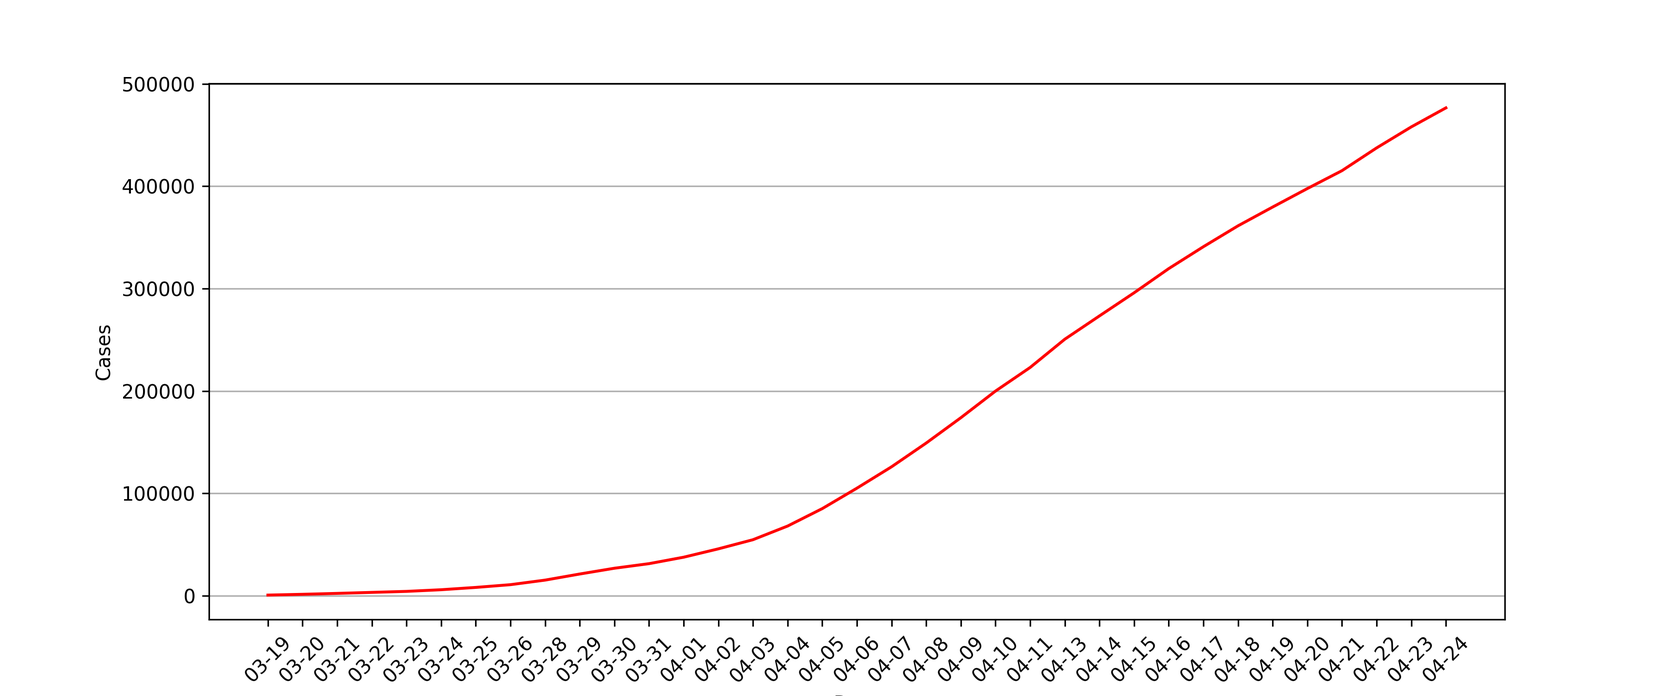
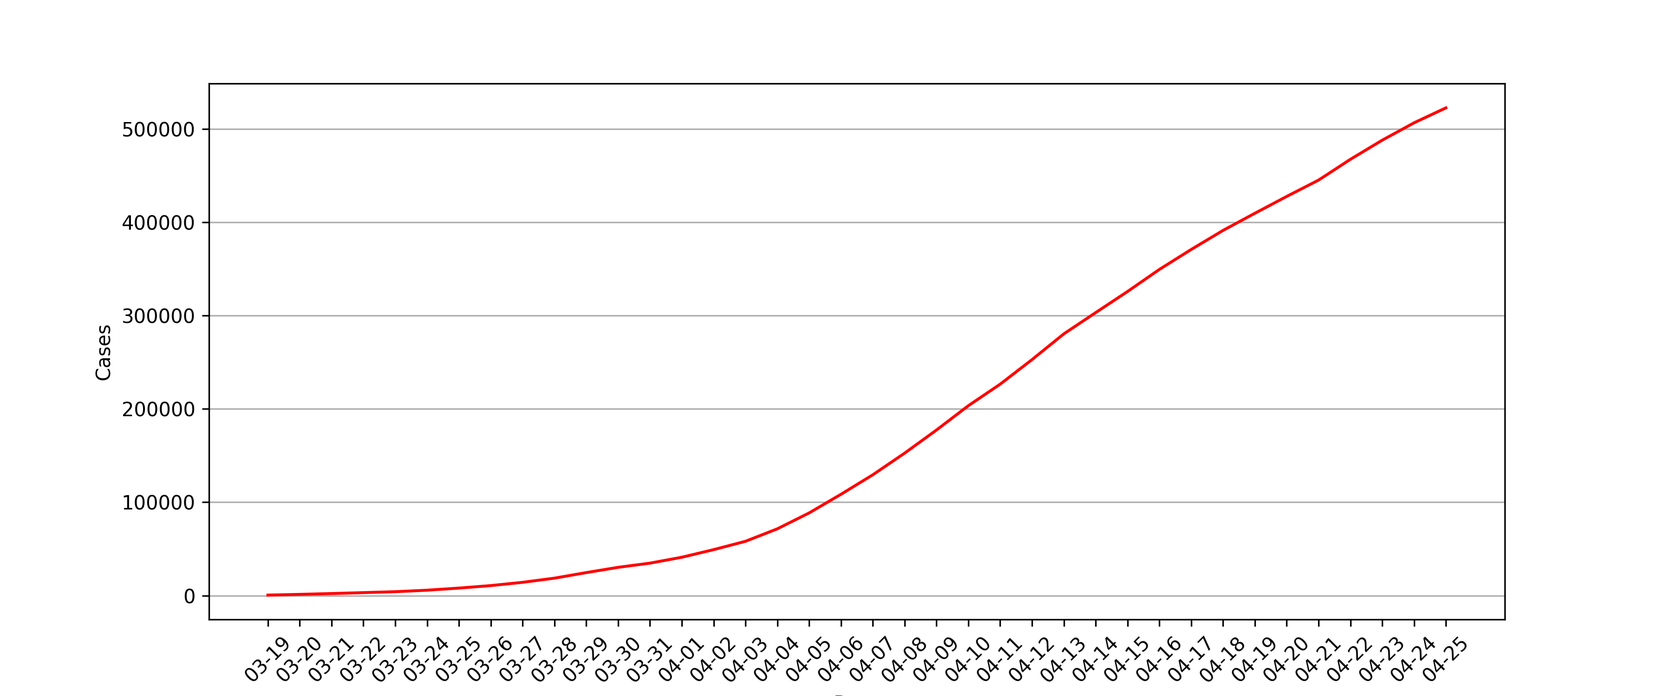
update readme

diff --git a/readme.py b/readme.py
@@ -1,3 +1,4 @@
+from datetime import datetime
 from jinja2 import Environment, FileSystemLoader
 from util import get_data
 
@@ -46,7 +47,8 @@ if __name__ == "__main__":
                                cases=sorted(
                                    cases, key=lambda x: x['date'], reverse=True),
                                cases_by_date=cases_by_date,
-                               district_names=district_names)
+                               district_names=district_names,
+                               current_date=datetime.now().strftime("%d/%m/%Y"))
 
     with open("README.md", "w") as f:
         f.write(content)

diff --git a/parser.py b/parser.py
@@ -126,7 +126,7 @@ def generate_all_data(urls_filename: str):
     with open(urls_filename, 'r') as f:
         urls = json.load(f)
 
-    regex = "(\\d+)月(\\d+)日（(.*?)时）本市各区确诊病例、无症状感染者居住地信息.*?"
+    regex = "(.*?)月(\\d+)日（(.*?)时）本市各区确诊病例、无症状感染者居住地信息.*?"
     pattern = re.compile(regex, re.IGNORECASE)
     for url in urls:
         text = url['text']

diff --git a/README.md b/README.md
@@ -4,7 +4,7 @@ No entire COVID-19 statistics data of Shanghai lockdown period can be found in [
 Data of project [shanghai-lockdown-covid-19](https://github.com/lewangdev/shanghai-lockdown-covid-19) is crawled from [Shanghai Government](https://wsjkw.sh.gov.cn/yqtb/)'s public website, began at 19/03/2022, the date of my place lockdown.
 
 Shanghai is divided by Huangpu River into two parts, Pudong area and Puxi area. Pudong's lockdown began at 28/03/2022 firstly, and Puxi started its shutdown at 01/04/2022.
-Most of areas of Shanghai remain locked down till now(25/04/2022). 
+Most of areas of Shanghai remain locked down till 26/04/2022. 
 
 This project will be updated everyday before Shanghai reopen. JSON files with places can be found in directory [data](https://github.com/lewangdev/shanghai-lockdown-covid-19/tree/main/data).
 
@@ -17,6 +17,7 @@ This project will be updated everyday before Shanghai reopen. JSON files with pl
 
 | Date/Details | New Cases  | Confirmed Cases | Asymptomatic Cases | A2C Cases(*) |
 | ---- | ---------- | ---------------- | ----------------- | ---------------------------- |
+| 2022-04-25 | 16012 | 1661 | 15319 | 968 |
 | 2022-04-24 | 18609 | 2472 | 16983 | 846 |
 | 2022-04-23 | 20517 | 1401 | 19657 | 541 |
 | 2022-04-22 | 22250 | 2736 | 20634 | 1120 |
@@ -29,6 +30,7 @@ This project will be updated everyday before Shanghai reopen. JSON files with pl
 | 2022-04-15 | 22591 | 3590 | 19923 | 922 |
 | 2022-04-14 | 22765 | 3200 | 19872 | 307 |
 | 2022-04-13 | 27605 | 2573 | 25146 | 114 |
+| 2022-04-12 | 26307 | 1189 | 25141 | 23 |
 | 2022-04-11 | 23069 | 994 | 22348 | 273 |
 | 2022-04-10 | 26040 | 914 | 25173 | 47 |
 | 2022-04-09 | 24752 | 1006 | 23937 | 191 |
@@ -44,6 +46,7 @@ This project will be updated everyday before Shanghai reopen. JSON files with pl
 | 2022-03-30 | 5637 | 355 | 5298 | 16 |
 | 2022-03-29 | 5964 | 326 | 5656 | 18 |
 | 2022-03-28 | 4456 | 96 | 4381 | 21 |
+| 2022-03-27 | 3500 | 50 | 3450 | 0 |
 | 2022-03-26 | 2676 | 45 | 2631 | 0 |
 | 2022-03-25 | 2264 | 38 | 2231 | 5 |
 | 2022-03-24 | 1609 | 29 | 1580 | 0 |
@@ -61,33 +64,36 @@ This project will be updated everyday before Shanghai reopen. JSON files with pl
 
 | Date | Total Cases  | 
 | ---- | ---------- |
-| 2022-04-24 | 476605 |
-| 2022-04-23 | 457996 |
-| 2022-04-22 | 437479 |
-| 2022-04-21 | 415229 |
-| 2022-04-20 | 397743 |
-| 2022-04-19 | 379707 |
-| 2022-04-18 | 361339 |
-| 2022-04-17 | 340923 |
-| 2022-04-16 | 319528 |
-| 2022-04-15 | 295885 |
-| 2022-04-14 | 273294 |
-| 2022-04-13 | 250529 |
-| 2022-04-11 | 222924 |
-| 2022-04-10 | 199855 |
-| 2022-04-09 | 173815 |
-| 2022-04-08 | 149063 |
-| 2022-04-07 | 125859 |
-| 2022-04-06 | 104960 |
-| 2022-04-05 | 84993 |
-| 2022-04-04 | 67956 |
-| 2022-04-03 | 54606 |
-| 2022-04-02 | 45671 |
-| 2022-04-01 | 37518 |
-| 2022-03-31 | 31209 |
-| 2022-03-30 | 26727 |
-| 2022-03-29 | 21090 |
-| 2022-03-28 | 15126 |
+| 2022-04-25 | 522424 |
+| 2022-04-24 | 506412 |
+| 2022-04-23 | 487803 |
+| 2022-04-22 | 467286 |
+| 2022-04-21 | 445036 |
+| 2022-04-20 | 427550 |
+| 2022-04-19 | 409514 |
+| 2022-04-18 | 391146 |
+| 2022-04-17 | 370730 |
+| 2022-04-16 | 349335 |
+| 2022-04-15 | 325692 |
+| 2022-04-14 | 303101 |
+| 2022-04-13 | 280336 |
+| 2022-04-12 | 252731 |
+| 2022-04-11 | 226424 |
+| 2022-04-10 | 203355 |
+| 2022-04-09 | 177315 |
+| 2022-04-08 | 152563 |
+| 2022-04-07 | 129359 |
+| 2022-04-06 | 108460 |
+| 2022-04-05 | 88493 |
+| 2022-04-04 | 71456 |
+| 2022-04-03 | 58106 |
+| 2022-04-02 | 49171 |
+| 2022-04-01 | 41018 |
+| 2022-03-31 | 34709 |
+| 2022-03-30 | 30227 |
+| 2022-03-29 | 24590 |
+| 2022-03-28 | 18626 |
+| 2022-03-27 | 14170 |
 | 2022-03-26 | 10670 |
 | 2022-03-25 | 7994 |
 | 2022-03-24 | 5730 |
@@ -99,124 +105,133 @@ This project will be updated everyday before Shanghai reopen. JSON files with pl
 
 ### District New Cases
 
-| Date/District |  浦东新区 |  黄浦区 |  静安区 |  徐汇区 |  长宁区 |  杨浦区 |  宝山区 |  闵行区 |  嘉定区 |  金山区 |  松江区 |  青浦区 |  奉贤区 |  虹口区 |  普陀区 |  崇明区 |  
+| Date/District |  浦东新区 |  黄浦区 |  静安区 |  徐汇区 |  长宁区 |  杨浦区 |  宝山区 |  闵行区 |  嘉定区 |  金山区 |  松江区 |  青浦区 |  奉贤区 |  普陀区 |  虹口区 |  崇明区 |  
 | ---- |  ---------- |  ---------- |  ---------- |  ---------- |  ---------- |  ---------- |  ---------- |  ---------- |  ---------- |  ---------- |  ---------- |  ---------- |  ---------- |  ---------- |  ---------- |  ---------- | 
 | 2022-03-19 |  135 |  36 |  15 |  61 |  12 |  14 |  17 |  53 |  81 |  3 |  16 |  5 |  6 |  0 |  0 |  0 |  
 | 2022-03-20 |  220 |  42 |  32 |  46 |  13 |  8 |  13 |  265 |  0 |  11 |  9 |  4 |  13 |  0 |  0 |  0 |  
 | 2022-03-21 |  169 |  0 |  44 |  130 |  26 |  10 |  67 |  122 |  0 |  16 |  0 |  5 |  22 |  0 |  0 |  0 |  
-| 2022-03-22 |  237 |  59 |  28 |  87 |  19 |  3 |  16 |  305 |  0 |  0 |  31 |  20 |  8 |  13 |  21 |  19 |  
-| 2022-03-23 |  218 |  20 |  48 |  106 |  11 |  11 |  69 |  256 |  69 |  0 |  34 |  10 |  12 |  26 |  34 |  54 |  
-| 2022-03-24 |  193 |  102 |  70 |  167 |  59 |  21 |  87 |  490 |  130 |  0 |  92 |  13 |  24 |  29 |  38 |  82 |  
-| 2022-03-25 |  1914 |  23 |  2 |  3 |  4 |  11 |  4 |  206 |  19 |  0 |  15 |  13 |  0 |  4 |  9 |  41 |  
-| 2022-03-26 |  323 |  160 |  108 |  331 |  29 |  23 |  153 |  972 |  0 |  0 |  79 |  22 |  84 |  50 |  69 |  27 |  
-| 2022-03-28 |  2506 |  283 |  104 |  91 |  115 |  47 |  311 |  370 |  0 |  19 |  90 |  57 |  115 |  8 |  81 |  67 |  
-| 2022-03-29 |  2183 |  110 |  175 |  1100 |  30 |  99 |  363 |  988 |  255 |  26 |  0 |  87 |  96 |  73 |  113 |  55 |  
-| 2022-03-30 |  2207 |  361 |  102 |  404 |  128 |  100 |  504 |  780 |  158 |  33 |  0 |  77 |  130 |  84 |  146 |  193 |  
-| 2022-03-31 |  2407 |  121 |  164 |  226 |  256 |  174 |  17 |  392 |  54 |  42 |  179 |  95 |  183 |  128 |  15 |  44 |  
-| 2022-04-01 |  2584 |  2584 |  260 |  260 |  189 |  189 |  639 |  639 |  37 |  37 |  134 |  134 |  45 |  45 |  1043 |  1043 |  0 |  0 |  49 |  49 |  474 |  474 |  87 |  87 |  161 |  161 |  61 |  61 |  245 |  245 |  83 |  83 |  
-| 2022-04-02 |  2038 |  659 |  324 |  1042 |  100 |  274 |  485 |  829 |  0 |  60 |  567 |  231 |  157 |  342 |  388 |  113 |  
-| 2022-04-03 |  3654 |  824 |  338 |  499 |  104 |  374 |  467 |  940 |  415 |  103 |  257 |  232 |  119 |  188 |  321 |  165 |  
-| 2022-04-04 |  7071 |  970 |  50 |  1229 |  33 |  220 |  265 |  1381 |  237 |  52 |  553 |  314 |  64 |  608 |  254 |  47 |  
-| 2022-04-05 |  8145 |  658 |  302 |  920 |  84 |  623 |  554 |  2937 |  481 |  77 |  796 |  384 |  144 |  410 |  483 |  79 |  
-| 2022-04-06 |  8457 |  1044 |  545 |  1107 |  350 |  630 |  660 |  2409 |  1408 |  79 |  781 |  470 |  278 |  668 |  1033 |  63 |  
-| 2022-04-07 |  9050 |  1380 |  381 |  2076 |  852 |  601 |  414 |  2257 |  933 |  129 |  644 |  493 |  92 |  594 |  957 |  260 |  
-| 2022-04-08 |  7286 |  2607 |  665 |  1629 |  614 |  701 |  2821 |  2854 |  1505 |  90 |  663 |  342 |  97 |  378 |  1094 |  167 |  
-| 2022-04-09 |  11130 |  548 |  602 |  1150 |  757 |  1080 |  2261 |  4624 |  369 |  68 |  500 |  557 |  124 |  349 |  653 |  171 |  
-| 2022-04-10 |  6732 |  1761 |  603 |  3203 |  387 |  1877 |  1839 |  3189 |  1405 |  57 |  1534 |  877 |  38 |  1238 |  1001 |  0 |  
-| 2022-04-11 |  8306 |  2223 |  552 |  1771 |  393 |  1420 |  1024 |  3007 |  208 |  38 |  670 |  331 |  68 |  1375 |  1878 |  0 |  
-| 2022-04-13 |  15027 |  1408 |  220 |  1492 |  957 |  1185 |  651 |  2939 |  721 |  34 |  526 |  319 |  83 |  1488 |  475 |  56 |  
-| 2022-04-14 |  11656 |  2013 |  266 |  1342 |  998 |  817 |  417 |  2378 |  803 |  28 |  583 |  304 |  35 |  930 |  264 |  31 |  
-| 2022-04-15 |  10282 |  1384 |  433 |  1689 |  752 |  1411 |  1323 |  2037 |  741 |  31 |  773 |  536 |  106 |  1497 |  426 |  92 |  
-| 2022-04-16 |  10791 |  1565 |  1134 |  1532 |  706 |  860 |  1293 |  3060 |  685 |  21 |  323 |  305 |  51 |  1027 |  1331 |  36 |  
-| 2022-04-17 |  7740 |  1896 |  842 |  1553 |  739 |  887 |  1450 |  2402 |  978 |  24 |  752 |  369 |  20 |  1166 |  1225 |  0 |  
-| 2022-04-18 |  8831 |  3323 |  1010 |  572 |  680 |  481 |  1030 |  1372 |  588 |  7 |  762 |  257 |  14 |  1092 |  371 |  26 |  
-| 2022-04-19 |  5646 |  3084 |  1733 |  1608 |  618 |  766 |  957 |  1602 |  743 |  9 |  325 |  389 |  60 |  753 |  528 |  80 |  
-| 2022-04-20 |  4465 |  3097 |  1130 |  1447 |  726 |  2005 |  833 |  1686 |  649 |  17 |  676 |  280 |  32 |  832 |  555 |  57 |  
-| 2022-04-21 |  4655 |  1752 |  2064 |  1366 |  496 |  543 |  978 |  2563 |  776 |  30 |  493 |  385 |  34 |  885 |  489 |  120 |  
-| 2022-04-22 |  7961 |  2843 |  786 |  1275 |  713 |  1356 |  2033 |  1305 |  500 |  26 |  2568 |  359 |  8 |  997 |  523 |  103 |  
-| 2022-04-23 |  7626 |  1959 |  471 |  1722 |  727 |  1277 |  2886 |  877 |  751 |  0 |  773 |  424 |  16 |  819 |  478 |  182 |  
-| 2022-04-24 |  6181 |  1755 |  1702 |  1396 |  749 |  1235 |  2506 |  1229 |  601 |  68 |  548 |  251 |  7 |  655 |  477 |  95 |  
+| 2022-03-22 |  237 |  59 |  28 |  87 |  19 |  3 |  16 |  305 |  0 |  0 |  31 |  20 |  8 |  21 |  13 |  19 |  
+| 2022-03-23 |  218 |  20 |  48 |  106 |  11 |  11 |  69 |  256 |  69 |  0 |  34 |  10 |  12 |  34 |  26 |  54 |  
+| 2022-03-24 |  193 |  102 |  70 |  167 |  59 |  21 |  87 |  490 |  130 |  0 |  92 |  13 |  24 |  38 |  29 |  82 |  
+| 2022-03-25 |  1914 |  23 |  2 |  3 |  4 |  11 |  4 |  206 |  19 |  0 |  15 |  13 |  0 |  9 |  4 |  41 |  
+| 2022-03-26 |  323 |  160 |  108 |  331 |  29 |  23 |  153 |  972 |  0 |  0 |  79 |  22 |  84 |  69 |  50 |  27 |  
+| 2022-03-27 |  1429 |  56 |  70 |  277 |  45 |  35 |  94 |  619 |  0 |  0 |  190 |  43 |  45 |  70 |  27 |  236 |  
+| 2022-03-28 |  2506 |  283 |  104 |  91 |  115 |  47 |  311 |  370 |  0 |  19 |  90 |  57 |  115 |  81 |  8 |  67 |  
+| 2022-03-29 |  2183 |  110 |  175 |  1100 |  30 |  99 |  363 |  988 |  255 |  26 |  0 |  87 |  96 |  113 |  73 |  55 |  
+| 2022-03-30 |  2207 |  361 |  102 |  404 |  128 |  100 |  504 |  780 |  158 |  33 |  0 |  77 |  130 |  146 |  84 |  193 |  
+| 2022-03-31 |  2407 |  121 |  164 |  226 |  256 |  174 |  17 |  392 |  54 |  42 |  179 |  95 |  183 |  15 |  128 |  44 |  
+| 2022-04-01 |  2584 |  2584 |  260 |  260 |  189 |  189 |  639 |  639 |  37 |  37 |  134 |  134 |  45 |  45 |  1043 |  1043 |  0 |  0 |  49 |  49 |  474 |  474 |  87 |  87 |  161 |  161 |  245 |  245 |  61 |  61 |  83 |  83 |  
+| 2022-04-02 |  2038 |  659 |  324 |  1042 |  100 |  274 |  485 |  829 |  0 |  60 |  567 |  231 |  157 |  388 |  342 |  113 |  
+| 2022-04-03 |  3654 |  824 |  338 |  499 |  104 |  374 |  467 |  940 |  415 |  103 |  257 |  232 |  119 |  321 |  188 |  165 |  
+| 2022-04-04 |  7071 |  970 |  50 |  1229 |  33 |  220 |  265 |  1381 |  237 |  52 |  553 |  314 |  64 |  254 |  608 |  47 |  
+| 2022-04-05 |  8145 |  658 |  302 |  920 |  84 |  623 |  554 |  2937 |  481 |  77 |  796 |  384 |  144 |  483 |  410 |  79 |  
+| 2022-04-06 |  8457 |  1044 |  545 |  1107 |  350 |  630 |  660 |  2409 |  1408 |  79 |  781 |  470 |  278 |  1033 |  668 |  63 |  
+| 2022-04-07 |  9050 |  1380 |  381 |  2076 |  852 |  601 |  414 |  2257 |  933 |  129 |  644 |  493 |  92 |  957 |  594 |  260 |  
+| 2022-04-08 |  7286 |  2607 |  665 |  1629 |  614 |  701 |  2821 |  2854 |  1505 |  90 |  663 |  342 |  97 |  1094 |  378 |  167 |  
+| 2022-04-09 |  11130 |  548 |  602 |  1150 |  757 |  1080 |  2261 |  4624 |  369 |  68 |  500 |  557 |  124 |  653 |  349 |  171 |  
+| 2022-04-10 |  6732 |  1761 |  603 |  3203 |  387 |  1877 |  1839 |  3189 |  1405 |  57 |  1534 |  877 |  38 |  1001 |  1238 |  0 |  
+| 2022-04-11 |  8306 |  2223 |  552 |  1771 |  393 |  1420 |  1024 |  3007 |  208 |  38 |  670 |  331 |  68 |  1878 |  1375 |  0 |  
+| 2022-04-12 |  11049 |  1804 |  1056 |  1108 |  1133 |  1159 |  295 |  4245 |  986 |  39 |  712 |  524 |  33 |  1170 |  931 |  86 |  
+| 2022-04-13 |  15027 |  1408 |  220 |  1492 |  957 |  1185 |  651 |  2939 |  721 |  34 |  526 |  319 |  83 |  475 |  1488 |  56 |  
+| 2022-04-14 |  11656 |  2013 |  266 |  1342 |  998 |  817 |  417 |  2378 |  803 |  28 |  583 |  304 |  35 |  264 |  930 |  31 |  
+| 2022-04-15 |  10282 |  1384 |  433 |  1689 |  752 |  1411 |  1323 |  2037 |  741 |  31 |  773 |  536 |  106 |  426 |  1497 |  92 |  
+| 2022-04-16 |  10791 |  1565 |  1134 |  1532 |  706 |  860 |  1293 |  3060 |  685 |  21 |  323 |  305 |  51 |  1331 |  1027 |  36 |  
+| 2022-04-17 |  7740 |  1896 |  842 |  1553 |  739 |  887 |  1450 |  2402 |  978 |  24 |  752 |  369 |  20 |  1225 |  1166 |  0 |  
+| 2022-04-18 |  8831 |  3323 |  1010 |  572 |  680 |  481 |  1030 |  1372 |  588 |  7 |  762 |  257 |  14 |  371 |  1092 |  26 |  
+| 2022-04-19 |  5646 |  3084 |  1733 |  1608 |  618 |  766 |  957 |  1602 |  743 |  9 |  325 |  389 |  60 |  528 |  753 |  80 |  
+| 2022-04-20 |  4465 |  3097 |  1130 |  1447 |  726 |  2005 |  833 |  1686 |  649 |  17 |  676 |  280 |  32 |  555 |  832 |  57 |  
+| 2022-04-21 |  4655 |  1752 |  2064 |  1366 |  496 |  543 |  978 |  2563 |  776 |  30 |  493 |  385 |  34 |  489 |  885 |  120 |  
+| 2022-04-22 |  7961 |  2843 |  786 |  1275 |  713 |  1356 |  2033 |  1305 |  500 |  26 |  2568 |  359 |  8 |  523 |  997 |  103 |  
+| 2022-04-23 |  7626 |  1959 |  471 |  1722 |  727 |  1277 |  2886 |  877 |  751 |  0 |  773 |  424 |  16 |  478 |  819 |  182 |  
+| 2022-04-24 |  6181 |  1755 |  1702 |  1396 |  749 |  1235 |  2506 |  1229 |  601 |  68 |  548 |  251 |  7 |  477 |  655 |  95 |  
+| 2022-04-25 |  3912 |  2671 |  1016 |  1341 |  534 |  1244 |  1786 |  717 |  543 |  22 |  641 |  379 |  9 |  418 |  1270 |  438 |  
 
 
 ### District Total Cases
 
-| Date/District |  浦东新区 |  黄浦区 |  静安区 |  徐汇区 |  长宁区 |  杨浦区 |  宝山区 |  闵行区 |  嘉定区 |  金山区 |  松江区 |  青浦区 |  奉贤区 |  虹口区 |  普陀区 |  崇明区 |  
+| Date/District |  浦东新区 |  黄浦区 |  静安区 |  徐汇区 |  长宁区 |  杨浦区 |  宝山区 |  闵行区 |  嘉定区 |  金山区 |  松江区 |  青浦区 |  奉贤区 |  普陀区 |  虹口区 |  崇明区 |  
 | ---- |  ---------- |  ---------- |  ---------- |  ---------- |  ---------- |  ---------- |  ---------- |  ---------- |  ---------- |  ---------- |  ---------- |  ---------- |  ---------- |  ---------- |  ---------- |  ---------- | 
 | 2022-03-19 |  135 |  36 |  15 |  61 |  12 |  14 |  17 |  53 |  81 |  3 |  16 |  5 |  6 |  0 |  0 |  0 |  
 | 2022-03-20 |  355 |  78 |  47 |  107 |  25 |  22 |  30 |  318 |  81 |  14 |  25 |  9 |  19 |  0 |  0 |  0 |  
 | 2022-03-21 |  524 |  78 |  91 |  237 |  51 |  32 |  97 |  440 |  81 |  30 |  25 |  14 |  41 |  0 |  0 |  0 |  
-| 2022-03-22 |  761 |  137 |  119 |  324 |  70 |  35 |  113 |  745 |  81 |  30 |  56 |  34 |  49 |  13 |  21 |  19 |  
-| 2022-03-23 |  979 |  157 |  167 |  430 |  81 |  46 |  182 |  1001 |  150 |  30 |  90 |  44 |  61 |  39 |  55 |  73 |  
-| 2022-03-24 |  1172 |  259 |  237 |  597 |  140 |  67 |  269 |  1491 |  280 |  30 |  182 |  57 |  85 |  68 |  93 |  155 |  
-| 2022-03-25 |  3086 |  282 |  239 |  600 |  144 |  78 |  273 |  1697 |  299 |  30 |  197 |  70 |  85 |  72 |  102 |  196 |  
-| 2022-03-26 |  3409 |  442 |  347 |  931 |  173 |  101 |  426 |  2669 |  299 |  30 |  276 |  92 |  169 |  122 |  171 |  223 |  
-| 2022-03-28 |  5915 |  725 |  451 |  1022 |  288 |  148 |  737 |  3039 |  299 |  49 |  366 |  149 |  284 |  130 |  252 |  290 |  
-| 2022-03-29 |  8098 |  835 |  626 |  2122 |  318 |  247 |  1100 |  4027 |  554 |  75 |  366 |  236 |  380 |  203 |  365 |  345 |  
-| 2022-03-30 |  10305 |  1196 |  728 |  2526 |  446 |  347 |  1604 |  4807 |  712 |  108 |  366 |  313 |  510 |  287 |  511 |  538 |  
-| 2022-03-31 |  12712 |  1317 |  892 |  2752 |  702 |  521 |  1621 |  5199 |  766 |  150 |  545 |  408 |  693 |  415 |  526 |  582 |  
-| 2022-04-01 |  15296 |  17880 |  1577 |  1837 |  1081 |  1270 |  3391 |  4030 |  739 |  776 |  655 |  789 |  1666 |  1711 |  6242 |  7285 |  766 |  766 |  199 |  248 |  1019 |  1493 |  495 |  582 |  854 |  1015 |  476 |  537 |  771 |  1016 |  665 |  748 |  
-| 2022-04-02 |  19918 |  2496 |  1594 |  5072 |  876 |  1063 |  2196 |  8114 |  766 |  308 |  2060 |  813 |  1172 |  879 |  1404 |  861 |  
-| 2022-04-03 |  23572 |  3320 |  1932 |  5571 |  980 |  1437 |  2663 |  9054 |  1181 |  411 |  2317 |  1045 |  1291 |  1067 |  1725 |  1026 |  
-| 2022-04-04 |  30643 |  4290 |  1982 |  6800 |  1013 |  1657 |  2928 |  10435 |  1418 |  463 |  2870 |  1359 |  1355 |  1675 |  1979 |  1073 |  
-| 2022-04-05 |  38788 |  4948 |  2284 |  7720 |  1097 |  2280 |  3482 |  13372 |  1899 |  540 |  3666 |  1743 |  1499 |  2085 |  2462 |  1152 |  
-| 2022-04-06 |  47245 |  5992 |  2829 |  8827 |  1447 |  2910 |  4142 |  15781 |  3307 |  619 |  4447 |  2213 |  1777 |  2753 |  3495 |  1215 |  
-| 2022-04-07 |  56295 |  7372 |  3210 |  10903 |  2299 |  3511 |  4556 |  18038 |  4240 |  748 |  5091 |  2706 |  1869 |  3347 |  4452 |  1475 |  
-| 2022-04-08 |  63581 |  9979 |  3875 |  12532 |  2913 |  4212 |  7377 |  20892 |  5745 |  838 |  5754 |  3048 |  1966 |  3725 |  5546 |  1642 |  
-| 2022-04-09 |  74711 |  10527 |  4477 |  13682 |  3670 |  5292 |  9638 |  25516 |  6114 |  906 |  6254 |  3605 |  2090 |  4074 |  6199 |  1813 |  
-| 2022-04-10 |  81443 |  12288 |  5080 |  16885 |  4057 |  7169 |  11477 |  28705 |  7519 |  963 |  7788 |  4482 |  2128 |  5312 |  7200 |  1813 |  
-| 2022-04-11 |  89749 |  14511 |  5632 |  18656 |  4450 |  8589 |  12501 |  31712 |  7727 |  1001 |  8458 |  4813 |  2196 |  6687 |  9078 |  1813 |  
-| 2022-04-13 |  104776 |  15919 |  5852 |  20148 |  5407 |  9774 |  13152 |  34651 |  8448 |  1035 |  8984 |  5132 |  2279 |  8175 |  9553 |  1869 |  
-| 2022-04-14 |  116432 |  17932 |  6118 |  21490 |  6405 |  10591 |  13569 |  37029 |  9251 |  1063 |  9567 |  5436 |  2314 |  9105 |  9817 |  1900 |  
-| 2022-04-15 |  126714 |  19316 |  6551 |  23179 |  7157 |  12002 |  14892 |  39066 |  9992 |  1094 |  10340 |  5972 |  2420 |  10602 |  10243 |  1992 |  
-| 2022-04-16 |  137505 |  20881 |  7685 |  24711 |  7863 |  12862 |  16185 |  42126 |  10677 |  1115 |  10663 |  6277 |  2471 |  11629 |  11574 |  2028 |  
-| 2022-04-17 |  145245 |  22777 |  8527 |  26264 |  8602 |  13749 |  17635 |  44528 |  11655 |  1139 |  11415 |  6646 |  2491 |  12795 |  12799 |  2028 |  
-| 2022-04-18 |  154076 |  26100 |  9537 |  26836 |  9282 |  14230 |  18665 |  45900 |  12243 |  1146 |  12177 |  6903 |  2505 |  13887 |  13170 |  2054 |  
-| 2022-04-19 |  159722 |  29184 |  11270 |  28444 |  9900 |  14996 |  19622 |  47502 |  12986 |  1155 |  12502 |  7292 |  2565 |  14640 |  13698 |  2134 |  
-| 2022-04-20 |  164187 |  32281 |  12400 |  29891 |  10626 |  17001 |  20455 |  49188 |  13635 |  1172 |  13178 |  7572 |  2597 |  15472 |  14253 |  2191 |  
-| 2022-04-21 |  168842 |  34033 |  14464 |  31257 |  11122 |  17544 |  21433 |  51751 |  14411 |  1202 |  13671 |  7957 |  2631 |  16357 |  14742 |  2311 |  
-| 2022-04-22 |  176803 |  36876 |  15250 |  32532 |  11835 |  18900 |  23466 |  53056 |  14911 |  1228 |  16239 |  8316 |  2639 |  17354 |  15265 |  2414 |  
-| 2022-04-23 |  184429 |  38835 |  15721 |  34254 |  12562 |  20177 |  26352 |  53933 |  15662 |  1228 |  17012 |  8740 |  2655 |  18173 |  15743 |  2596 |  
-| 2022-04-24 |  190610 |  40590 |  17423 |  35650 |  13311 |  21412 |  28858 |  55162 |  16263 |  1296 |  17560 |  8991 |  2662 |  18828 |  16220 |  2691 |  
+| 2022-03-22 |  761 |  137 |  119 |  324 |  70 |  35 |  113 |  745 |  81 |  30 |  56 |  34 |  49 |  21 |  13 |  19 |  
+| 2022-03-23 |  979 |  157 |  167 |  430 |  81 |  46 |  182 |  1001 |  150 |  30 |  90 |  44 |  61 |  55 |  39 |  73 |  
+| 2022-03-24 |  1172 |  259 |  237 |  597 |  140 |  67 |  269 |  1491 |  280 |  30 |  182 |  57 |  85 |  93 |  68 |  155 |  
+| 2022-03-25 |  3086 |  282 |  239 |  600 |  144 |  78 |  273 |  1697 |  299 |  30 |  197 |  70 |  85 |  102 |  72 |  196 |  
+| 2022-03-26 |  3409 |  442 |  347 |  931 |  173 |  101 |  426 |  2669 |  299 |  30 |  276 |  92 |  169 |  171 |  122 |  223 |  
+| 2022-03-27 |  4838 |  498 |  417 |  1208 |  218 |  136 |  520 |  3288 |  299 |  30 |  466 |  135 |  214 |  241 |  149 |  459 |  
+| 2022-03-28 |  7344 |  781 |  521 |  1299 |  333 |  183 |  831 |  3658 |  299 |  49 |  556 |  192 |  329 |  322 |  157 |  526 |  
+| 2022-03-29 |  9527 |  891 |  696 |  2399 |  363 |  282 |  1194 |  4646 |  554 |  75 |  556 |  279 |  425 |  435 |  230 |  581 |  
+| 2022-03-30 |  11734 |  1252 |  798 |  2803 |  491 |  382 |  1698 |  5426 |  712 |  108 |  556 |  356 |  555 |  581 |  314 |  774 |  
+| 2022-03-31 |  14141 |  1373 |  962 |  3029 |  747 |  556 |  1715 |  5818 |  766 |  150 |  735 |  451 |  738 |  596 |  442 |  818 |  
+| 2022-04-01 |  16725 |  19309 |  1633 |  1893 |  1151 |  1340 |  3668 |  4307 |  784 |  821 |  690 |  824 |  1760 |  1805 |  6861 |  7904 |  766 |  766 |  199 |  248 |  1209 |  1683 |  538 |  625 |  899 |  1060 |  841 |  1086 |  503 |  564 |  901 |  984 |  
+| 2022-04-02 |  21347 |  2552 |  1664 |  5349 |  921 |  1098 |  2290 |  8733 |  766 |  308 |  2250 |  856 |  1217 |  1474 |  906 |  1097 |  
+| 2022-04-03 |  25001 |  3376 |  2002 |  5848 |  1025 |  1472 |  2757 |  9673 |  1181 |  411 |  2507 |  1088 |  1336 |  1795 |  1094 |  1262 |  
+| 2022-04-04 |  32072 |  4346 |  2052 |  7077 |  1058 |  1692 |  3022 |  11054 |  1418 |  463 |  3060 |  1402 |  1400 |  2049 |  1702 |  1309 |  
+| 2022-04-05 |  40217 |  5004 |  2354 |  7997 |  1142 |  2315 |  3576 |  13991 |  1899 |  540 |  3856 |  1786 |  1544 |  2532 |  2112 |  1388 |  
+| 2022-04-06 |  48674 |  6048 |  2899 |  9104 |  1492 |  2945 |  4236 |  16400 |  3307 |  619 |  4637 |  2256 |  1822 |  3565 |  2780 |  1451 |  
+| 2022-04-07 |  57724 |  7428 |  3280 |  11180 |  2344 |  3546 |  4650 |  18657 |  4240 |  748 |  5281 |  2749 |  1914 |  4522 |  3374 |  1711 |  
+| 2022-04-08 |  65010 |  10035 |  3945 |  12809 |  2958 |  4247 |  7471 |  21511 |  5745 |  838 |  5944 |  3091 |  2011 |  5616 |  3752 |  1878 |  
+| 2022-04-09 |  76140 |  10583 |  4547 |  13959 |  3715 |  5327 |  9732 |  26135 |  6114 |  906 |  6444 |  3648 |  2135 |  6269 |  4101 |  2049 |  
+| 2022-04-10 |  82872 |  12344 |  5150 |  17162 |  4102 |  7204 |  11571 |  29324 |  7519 |  963 |  7978 |  4525 |  2173 |  7270 |  5339 |  2049 |  
+| 2022-04-11 |  91178 |  14567 |  5702 |  18933 |  4495 |  8624 |  12595 |  32331 |  7727 |  1001 |  8648 |  4856 |  2241 |  9148 |  6714 |  2049 |  
+| 2022-04-12 |  102227 |  16371 |  6758 |  20041 |  5628 |  9783 |  12890 |  36576 |  8713 |  1040 |  9360 |  5380 |  2274 |  10318 |  7645 |  2135 |  
+| 2022-04-13 |  117254 |  17779 |  6978 |  21533 |  6585 |  10968 |  13541 |  39515 |  9434 |  1074 |  9886 |  5699 |  2357 |  10793 |  9133 |  2191 |  
+| 2022-04-14 |  128910 |  19792 |  7244 |  22875 |  7583 |  11785 |  13958 |  41893 |  10237 |  1102 |  10469 |  6003 |  2392 |  11057 |  10063 |  2222 |  
+| 2022-04-15 |  139192 |  21176 |  7677 |  24564 |  8335 |  13196 |  15281 |  43930 |  10978 |  1133 |  11242 |  6539 |  2498 |  11483 |  11560 |  2314 |  
+| 2022-04-16 |  149983 |  22741 |  8811 |  26096 |  9041 |  14056 |  16574 |  46990 |  11663 |  1154 |  11565 |  6844 |  2549 |  12814 |  12587 |  2350 |  
+| 2022-04-17 |  157723 |  24637 |  9653 |  27649 |  9780 |  14943 |  18024 |  49392 |  12641 |  1178 |  12317 |  7213 |  2569 |  14039 |  13753 |  2350 |  
+| 2022-04-18 |  166554 |  27960 |  10663 |  28221 |  10460 |  15424 |  19054 |  50764 |  13229 |  1185 |  13079 |  7470 |  2583 |  14410 |  14845 |  2376 |  
+| 2022-04-19 |  172200 |  31044 |  12396 |  29829 |  11078 |  16190 |  20011 |  52366 |  13972 |  1194 |  13404 |  7859 |  2643 |  14938 |  15598 |  2456 |  
+| 2022-04-20 |  176665 |  34141 |  13526 |  31276 |  11804 |  18195 |  20844 |  54052 |  14621 |  1211 |  14080 |  8139 |  2675 |  15493 |  16430 |  2513 |  
+| 2022-04-21 |  181320 |  35893 |  15590 |  32642 |  12300 |  18738 |  21822 |  56615 |  15397 |  1241 |  14573 |  8524 |  2709 |  15982 |  17315 |  2633 |  
+| 2022-04-22 |  189281 |  38736 |  16376 |  33917 |  13013 |  20094 |  23855 |  57920 |  15897 |  1267 |  17141 |  8883 |  2717 |  16505 |  18312 |  2736 |  
+| 2022-04-23 |  196907 |  40695 |  16847 |  35639 |  13740 |  21371 |  26741 |  58797 |  16648 |  1267 |  17914 |  9307 |  2733 |  16983 |  19131 |  2918 |  
+| 2022-04-24 |  203088 |  42450 |  18549 |  37035 |  14489 |  22606 |  29247 |  60026 |  17249 |  1335 |  18462 |  9558 |  2740 |  17460 |  19786 |  3013 |  
+| 2022-04-25 |  207000 |  45121 |  19565 |  38376 |  15023 |  23850 |  31033 |  60743 |  17792 |  1357 |  19103 |  9937 |  2749 |  17878 |  21056 |  3451 |  
 
 ### District Covid-19 Places
 
-| Date/District |  浦东新区 |  黄浦区 |  静安区 |  徐汇区 |  长宁区 |  杨浦区 |  宝山区 |  闵行区 |  嘉定区 |  金山区 |  松江区 |  青浦区 |  奉贤区 |  虹口区 |  普陀区 |  崇明区 |  
+| Date/District |  浦东新区 |  黄浦区 |  静安区 |  徐汇区 |  长宁区 |  杨浦区 |  宝山区 |  闵行区 |  嘉定区 |  金山区 |  松江区 |  青浦区 |  奉贤区 |  普陀区 |  虹口区 |  崇明区 |  
 | ---- |  ---------- |  ---------- |  ---------- |  ---------- |  ---------- |  ---------- |  ---------- |  ---------- |  ---------- |  ---------- |  ---------- |  ---------- |  ---------- |  ---------- |  ---------- |  ---------- | 
 | 2022-03-19 |  86 |  24 |  13 |  39 |  9 |  8 |  13 |  30 |  34 |  3 |  7 |  3 |  5 |  0 |  0 |  0 |  
 | 2022-03-20 |  139 |  23 |  24 |  19 |  11 |  7 |  9 |  106 |  0 |  9 |  8 |  4 |  8 |  0 |  0 |  0 |  
 | 2022-03-21 |  106 |  34 |  22 |  54 |  20 |  9 |  44 |  54 |  0 |  11 |  22 |  5 |  13 |  0 |  0 |  0 |  
-| 2022-03-22 |  152 |  37 |  20 |  40 |  14 |  3 |  12 |  107 |  30 |  2 |  15 |  11 |  6 |  10 |  17 |  4 |  
-| 2022-03-23 |  140 |  13 |  29 |  44 |  9 |  11 |  44 |  81 |  31 |  2 |  25 |  7 |  12 |  14 |  23 |  5 |  
+| 2022-03-22 |  152 |  37 |  20 |  40 |  14 |  3 |  12 |  107 |  30 |  2 |  15 |  11 |  6 |  17 |  10 |  4 |  
+| 2022-03-23 |  140 |  13 |  29 |  44 |  9 |  11 |  44 |  81 |  31 |  2 |  25 |  7 |  12 |  23 |  14 |  5 |  
 | 2022-03-24 |  33 |  58 |  38 |  79 |  31 |  14 |  51 |  147 |  62 |  6 |  38 |  9 |  16 |  20 |  20 |  14 |  
-| 2022-03-25 |  678 |  16 |  2 |  2 |  4 |  7 |  4 |  74 |  10 |  1 |  11 |  7 |  0 |  3 |  6 |  5 |  
-| 2022-03-26 |  107 |  77 |  40 |  93 |  21 |  19 |  93 |  231 |  101 |  1 |  47 |  11 |  49 |  34 |  40 |  6 |  
-| 2022-03-28 |  1034 |  169 |  60 |  46 |  55 |  30 |  108 |  109 |  81 |  5 |  68 |  31 |  73 |  6 |  53 |  5 |  
-| 2022-03-29 |  747 |  84 |  90 |  264 |  23 |  76 |  149 |  194 |  102 |  8 |  77 |  26 |  57 |  58 |  69 |  21 |  
-| 2022-03-30 |  829 |  196 |  52 |  123 |  64 |  55 |  203 |  194 |  62 |  21 |  102 |  46 |  75 |  57 |  70 |  16 |  
-| 2022-03-31 |  858 |  82 |  64 |  87 |  120 |  115 |  14 |  116 |  30 |  29 |  92 |  35 |  114 |  96 |  9 |  6 |  
-| 2022-04-01 |  882 |  882 |  139 |  139 |  105 |  105 |  230 |  230 |  27 |  27 |  99 |  99 |  40 |  40 |  181 |  181 |  98 |  98 |  31 |  31 |  152 |  152 |  44 |  44 |  89 |  89 |  47 |  47 |  139 |  139 |  20 |  20 |  
-| 2022-04-02 |  716 |  275 |  165 |  317 |  70 |  154 |  222 |  197 |  213 |  33 |  159 |  101 |  88 |  197 |  188 |  23 |  
-| 2022-04-03 |  1010 |  369 |  168 |  174 |  51 |  216 |  207 |  196 |  148 |  53 |  119 |  114 |  72 |  123 |  135 |  19 |  
-| 2022-04-04 |  1443 |  467 |  18 |  403 |  30 |  134 |  148 |  162 |  98 |  28 |  209 |  138 |  39 |  261 |  104 |  9 |  
-| 2022-04-05 |  1274 |  339 |  155 |  300 |  55 |  276 |  252 |  324 |  135 |  32 |  278 |  179 |  64 |  163 |  179 |  13 |  
-| 2022-04-06 |  1509 |  481 |  227 |  339 |  197 |  302 |  323 |  321 |  465 |  33 |  236 |  191 |  75 |  271 |  289 |  16 |  
-| 2022-04-07 |  1706 |  568 |  166 |  325 |  325 |  235 |  224 |  287 |  309 |  25 |  284 |  165 |  42 |  132 |  269 |  10 |  
-| 2022-04-08 |  1227 |  825 |  249 |  393 |  235 |  281 |  849 |  320 |  381 |  12 |  270 |  112 |  32 |  188 |  277 |  9 |  
-| 2022-04-09 |  1969 |  289 |  232 |  323 |  277 |  403 |  786 |  366 |  115 |  12 |  181 |  191 |  28 |  171 |  220 |  2 |  
-| 2022-04-10 |  1421 |  647 |  214 |  585 |  164 |  573 |  580 |  505 |  332 |  20 |  381 |  224 |  21 |  380 |  247 |  6 |  
-| 2022-04-11 |  1588 |  668 |  210 |  353 |  159 |  453 |  359 |  618 |  65 |  8 |  214 |  91 |  29 |  454 |  343 |  11 |  
-| 2022-04-13 |  1863 |  516 |  87 |  365 |  315 |  381 |  231 |  623 |  192 |  4 |  221 |  77 |  10 |  522 |  127 |  6 |  
-| 2022-04-14 |  1704 |  700 |  96 |  360 |  298 |  302 |  195 |  530 |  219 |  3 |  189 |  58 |  5 |  330 |  79 |  5 |  
-| 2022-04-15 |  1746 |  601 |  106 |  357 |  283 |  402 |  234 |  433 |  211 |  2 |  207 |  112 |  11 |  377 |  64 |  7 |  
-| 2022-04-16 |  1778 |  570 |  320 |  374 |  178 |  307 |  333 |  562 |  177 |  1 |  52 |  62 |  4 |  365 |  280 |  4 |  
-| 2022-04-17 |  1550 |  681 |  292 |  349 |  174 |  300 |  413 |  506 |  204 |  0 |  162 |  85 |  5 |  398 |  206 |  0 |  
-| 2022-04-18 |  1397 |  915 |  290 |  171 |  192 |  179 |  346 |  328 |  185 |  0 |  201 |  52 |  1 |  433 |  130 |  0 |  
-| 2022-04-19 |  1144 |  953 |  509 |  360 |  196 |  275 |  295 |  391 |  169 |  2 |  92 |  93 |  0 |  284 |  152 |  0 |  
-| 2022-04-20 |  982 |  948 |  368 |  380 |  206 |  482 |  325 |  411 |  179 |  1 |  196 |  60 |  0 |  347 |  128 |  0 |  
-| 2022-04-21 |  1050 |  658 |  516 |  359 |  157 |  200 |  308 |  511 |  174 |  1 |  149 |  94 |  0 |  343 |  131 |  0 |  
-| 2022-04-22 |  1522 |  930 |  238 |  321 |  185 |  362 |  556 |  328 |  156 |  1 |  119 |  85 |  0 |  390 |  112 |  0 |  
-| 2022-04-23 |  1472 |  748 |  127 |  308 |  206 |  391 |  743 |  225 |  169 |  3 |  168 |  90 |  5 |  297 |  119 |  0 |  
-| 2022-04-24 |  1320 |  718 |  542 |  375 |  179 |  378 |  586 |  327 |  184 |  4 |  88 |  58 |  4 |  240 |  138 |  0 |  
+| 2022-03-25 |  678 |  16 |  2 |  2 |  4 |  7 |  4 |  74 |  10 |  1 |  11 |  7 |  0 |  6 |  3 |  5 |  
+| 2022-03-26 |  107 |  77 |  40 |  93 |  21 |  19 |  93 |  231 |  101 |  1 |  47 |  11 |  49 |  40 |  34 |  6 |  
+| 2022-03-27 |  616 |  42 |  38 |  93 |  22 |  26 |  55 |  154 |  91 |  11 |  99 |  26 |  27 |  45 |  16 |  6 |  
+| 2022-03-28 |  1034 |  169 |  60 |  46 |  55 |  30 |  108 |  109 |  81 |  5 |  68 |  31 |  73 |  53 |  6 |  5 |  
+| 2022-03-29 |  747 |  84 |  90 |  264 |  23 |  76 |  149 |  194 |  102 |  8 |  77 |  26 |  57 |  69 |  58 |  21 |  
+| 2022-03-30 |  829 |  196 |  52 |  123 |  64 |  55 |  203 |  194 |  62 |  21 |  102 |  46 |  75 |  70 |  57 |  16 |  
+| 2022-03-31 |  858 |  82 |  64 |  87 |  120 |  115 |  14 |  116 |  30 |  29 |  92 |  35 |  114 |  9 |  96 |  6 |  
+| 2022-04-01 |  882 |  882 |  139 |  139 |  105 |  105 |  230 |  230 |  27 |  27 |  99 |  99 |  40 |  40 |  181 |  181 |  98 |  98 |  31 |  31 |  152 |  152 |  44 |  44 |  89 |  89 |  139 |  139 |  47 |  47 |  20 |  20 |  
+| 2022-04-02 |  716 |  275 |  165 |  317 |  70 |  154 |  222 |  197 |  213 |  33 |  159 |  101 |  88 |  188 |  197 |  23 |  
+| 2022-04-03 |  1010 |  369 |  168 |  174 |  51 |  216 |  207 |  196 |  148 |  53 |  119 |  114 |  72 |  135 |  123 |  19 |  
+| 2022-04-04 |  1443 |  467 |  18 |  403 |  30 |  134 |  148 |  162 |  98 |  28 |  209 |  138 |  39 |  104 |  261 |  9 |  
+| 2022-04-05 |  1274 |  339 |  155 |  300 |  55 |  276 |  252 |  324 |  135 |  32 |  278 |  179 |  64 |  179 |  163 |  13 |  
+| 2022-04-06 |  1509 |  481 |  227 |  339 |  197 |  302 |  323 |  321 |  465 |  33 |  236 |  191 |  75 |  289 |  271 |  16 |  
+| 2022-04-07 |  1706 |  568 |  166 |  325 |  325 |  235 |  224 |  287 |  309 |  25 |  284 |  165 |  42 |  269 |  132 |  10 |  
+| 2022-04-08 |  1227 |  825 |  249 |  393 |  235 |  281 |  849 |  320 |  381 |  12 |  270 |  112 |  32 |  277 |  188 |  9 |  
+| 2022-04-09 |  1969 |  289 |  232 |  323 |  277 |  403 |  786 |  366 |  115 |  12 |  181 |  191 |  28 |  220 |  171 |  2 |  
+| 2022-04-10 |  1421 |  647 |  214 |  585 |  164 |  573 |  580 |  505 |  332 |  20 |  381 |  224 |  21 |  247 |  380 |  6 |  
+| 2022-04-11 |  1588 |  668 |  210 |  353 |  159 |  453 |  359 |  618 |  65 |  8 |  214 |  91 |  29 |  343 |  454 |  11 |  
+| 2022-04-12 |  1580 |  637 |  395 |  320 |  315 |  376 |  141 |  740 |  253 |  7 |  243 |  152 |  12 |  271 |  335 |  6 |  
+| 2022-04-13 |  1863 |  516 |  87 |  365 |  315 |  381 |  231 |  623 |  192 |  4 |  221 |  77 |  10 |  127 |  522 |  6 |  
+| 2022-04-14 |  1704 |  700 |  96 |  360 |  298 |  302 |  195 |  530 |  219 |  3 |  189 |  58 |  5 |  79 |  330 |  5 |  
+| 2022-04-15 |  1746 |  601 |  106 |  357 |  283 |  402 |  234 |  433 |  211 |  2 |  207 |  112 |  11 |  64 |  377 |  7 |  
+| 2022-04-16 |  1778 |  570 |  320 |  374 |  178 |  307 |  333 |  562 |  177 |  1 |  52 |  62 |  4 |  280 |  365 |  4 |  
+| 2022-04-17 |  1550 |  681 |  292 |  349 |  174 |  300 |  413 |  506 |  204 |  0 |  162 |  85 |  5 |  206 |  398 |  0 |  
+| 2022-04-18 |  1397 |  915 |  290 |  171 |  192 |  179 |  346 |  328 |  185 |  0 |  201 |  52 |  1 |  130 |  433 |  0 |  
+| 2022-04-19 |  1144 |  953 |  509 |  360 |  196 |  275 |  295 |  391 |  169 |  2 |  92 |  93 |  0 |  152 |  284 |  0 |  
+| 2022-04-20 |  982 |  948 |  368 |  380 |  206 |  482 |  325 |  411 |  179 |  1 |  196 |  60 |  0 |  128 |  347 |  0 |  
+| 2022-04-21 |  1050 |  658 |  516 |  359 |  157 |  200 |  308 |  511 |  174 |  1 |  149 |  94 |  0 |  131 |  343 |  0 |  
+| 2022-04-22 |  1522 |  930 |  238 |  321 |  185 |  362 |  556 |  328 |  156 |  1 |  119 |  85 |  0 |  112 |  390 |  0 |  
+| 2022-04-23 |  1472 |  748 |  127 |  308 |  206 |  391 |  743 |  225 |  169 |  3 |  168 |  90 |  5 |  119 |  297 |  0 |  
+| 2022-04-24 |  1320 |  718 |  542 |  375 |  179 |  378 |  586 |  327 |  184 |  4 |  88 |  58 |  4 |  138 |  240 |  0 |  
+| 2022-04-25 |  926 |  895 |  305 |  310 |  135 |  342 |  388 |  199 |  162 |  0 |  144 |  99 |  3 |  119 |  428 |  0 |  
 
 ## Data Source
 
